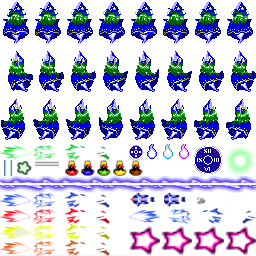
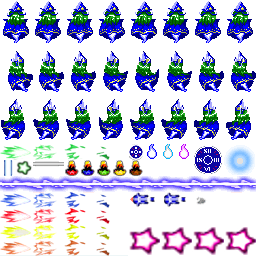
A bit of a change for the TH11 Sprites

diff --git a/mima/files.js b/mima/files.js
@@ -1,6 +1,6 @@
 {
 	"patch.js": 3616395204,
-	"th11/player/pl01/pl01.png": 3088790563,
+	"th11/player/pl01/pl01.png": 1835333719,
 	"th11/player/pl01/pl01b.png": 1172363398,
 	"th11/player/pl01/pl01c.png": 54773464,
 	"th12/face/pl01/face_pl01an.png": 1722571836,
